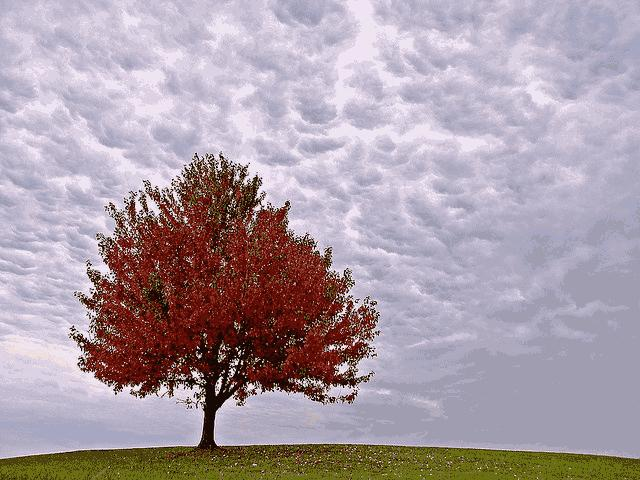
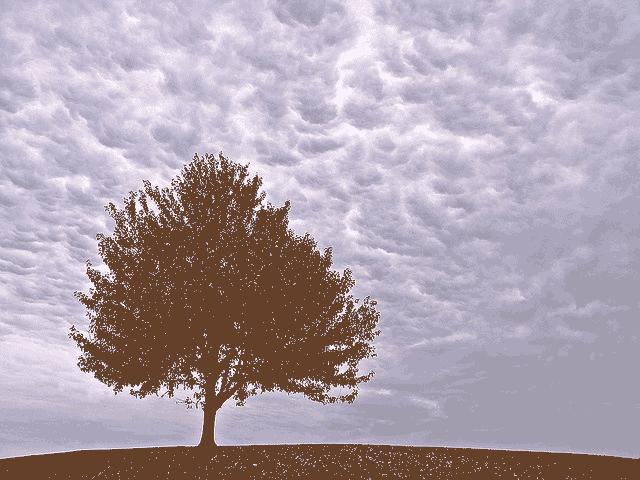
impove efficiency: eleminate cycles on points, use matrices

Changed region(s): [[0.0, 0.3125, 1.0, 1.0]]

diff --git a/src/retest2/kmeans.py b/src/retest2/kmeans.py
@@ -1,9 +1,7 @@
 import numpy as np
+from scipy.linalg import norm
 from PIL import Image
-
-
-def dist(x: np.array, y: np.array):
-    return np.sqrt(np.sum((x - y) ** 2))
+from typing import Optional
 
 
 class KMeans:
@@ -16,8 +14,9 @@ class KMeans:
         @param n_clusters: Число итоговых кластеров при кластеризации.
         @param max_iter: Максимальное число итераций для K-means.
         """
-        self.n_clusters = n_clusters
-        self.max_iter = max_iter
+        self.n_clusters: int = n_clusters
+        self.max_iter: int = max_iter
+        self.centroids: Optional[np.array] = None
 
     def fit(self, x: np.array):
         """
@@ -25,50 +24,44 @@ class KMeans:
 
         @param x: Набор данных, который необходимо кластеризовать.
         """
-
         assert self.n_clusters <= x.shape[0], f"{self.n_clusters} clusters for {x.shape[0]} points is too much!"
 
-        # self.centroids = x[np.random.choice(x.shape[0], self.n_clusters, replace=False)]
         self._init_centroids(x)
 
         for i in range(self.max_iter - 1):
-            clusters = [[] for _ in range(len(self.centroids))]
-            for sample in x:
-                clusters[self.get_closest_centroid(sample)].append(sample)
-
             prev_centroids = self.centroids
-            for j, cluster in enumerate(clusters):
-                # if centroid has any points
-                if cluster:
-                    self.centroids[j] = np.mean(cluster, axis=0)
-
-            if np.equal(self.centroids, prev_centroids).all():
+            self._center_centroids(x, self._label_points(self._compute_distance(x)))
+            if np.all(prev_centroids == self.centroids):
                 break
+
+    def _compute_distance(self, x):
+        distance = np.zeros((x.shape[0], self.n_clusters))
+        for i in range(self.n_clusters):
+            distance[:, i] = norm(x - self.centroids[i], axis=1)
+        return distance
+
+    def _label_points(self, distance):
+        return np.argmin(distance, axis=1)
+
+    def _center_centroids(self, X, labeled_points):
+        for i in range(self.n_clusters):
+            self.centroids[i, :] = np.mean(X[labeled_points == i, :], axis=0)
 
     def _init_centroids(self, x):
         """
             init centroids so that each new centroid is far from other centroids
         """
+        self.centroids = np.zeros((self.n_clusters, x.shape[1]))
         # initially choose random sample from data
-        self.centroids = [x[np.random.choice(x.shape[0])]]
-        for _ in range(self.n_clusters-1):
+        self.centroids[0, :] = x[np.random.choice(x.shape[0])]
+        for i in range(1, self.n_clusters):
             # calculate the sum of distances from point to centroids, for each point
             dists = np.sum([np.sqrt(np.sum((x - centroid)**2, axis=1)) for centroid in self.centroids], axis=0)
             # normalise
             dists /= np.sum(dists)
             # choose new centroid randomly with probability proportional to sum of distances to centroids
             new_centroid_idx = np.random.choice(len(x), size=1, p=dists)
-            self.centroids += [x[new_centroid_idx]]
-
-    def get_closest_centroid(self, point: np.array) -> int:
-        min_idx = 0
-        min_dist = dist(point, self.centroids[0])
-        for i in range(1, len(self.centroids)):
-            d = dist(point, self.centroids[i])
-            if d < min_dist:
-                min_idx = i
-                min_dist = d
-        return min_idx
+            self.centroids[i, :] = x[new_centroid_idx]
 
     def predict(self, x: np.array) -> np.array:
         """
@@ -80,7 +73,7 @@ class KMeans:
                         (по одному индексу для каждого элемента из X).
         """
 
-        return np.array([self.get_closest_centroid(sample) for sample in x])
+        return self._label_points(self._compute_distance(x))
 
 
 filename = 'cluster-tree'
